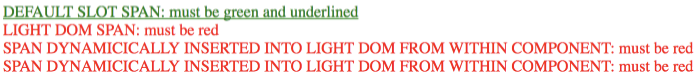
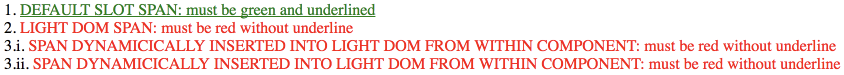
Made a clear relationship between each case in docs and on the demo

diff --git a/index.html b/index.html
@@ -14,9 +14,9 @@
     </style>
 </head>
 <body>
-    <my-static-component></my-static-component>
-    <my-static-component><span class="light">LIGHT DOM SPAN: must be red without underline</span></my-static-component>
-    <my-dynamic-component></my-dynamic-component>
-    <my-dynamic-component><span class="light">LIGHT DOM SPAN: must be red without underline</span></my-dynamic-component>
+    <div>1. <my-static-component></my-static-component></div>
+    <div>2. <my-static-component><span class="light">LIGHT DOM SPAN: must be red without underline</span></my-static-component></div>
+    <div>3.i. <my-dynamic-component></my-dynamic-component></div>
+    <div>3.ii. <my-dynamic-component><span class="light">LIGHT DOM SPAN: must be red without underline</span></my-dynamic-component></div>
 </body>
 </html>

diff --git a/my-dynamic-component.html b/my-dynamic-component.html
@@ -10,11 +10,9 @@
             }
         </style>
 
-        <div>
-            <slot>
-                <span>DEFAULT SLOT SPAN: must be green and underlined</span>
-            </slot>
-        </div>
+        <slot>
+            <span>DEFAULT SLOT SPAN: must be green and underlined</span>
+        </slot>
     </template>
 
     <script>

diff --git a/my-static-component.html b/my-static-component.html
@@ -10,11 +10,9 @@
             }
         </style>
 
-        <div>
-            <slot>
-                <span>DEFAULT SLOT SPAN: must be green and underlined</span>
-            </slot>
-        </div>
+        <slot>
+            <span>DEFAULT SLOT SPAN: must be green and underlined</span>
+        </slot>
     </template>
 
     <script>

diff --git a/README.md b/README.md
@@ -5,8 +5,8 @@ In this example I want to show specifics of styling slotted content in different
 1. Default slot content is styled by incapsulated styles only.
 2. Defined slot content is styled by external styles only.
 3. Dynamically inserted slot into Light DOM from within component is styled by external styles only:
-  - with default slot content;
-  - with defined slot content.
+    1. with default slot content;
+    2. with defined slot content.
 
 In my opinion third option should not be recommended because it violates incapsulation.
 However we use it exactly for the reason of applying external styles, as it seems to be less evil solution in a couple of cases.
